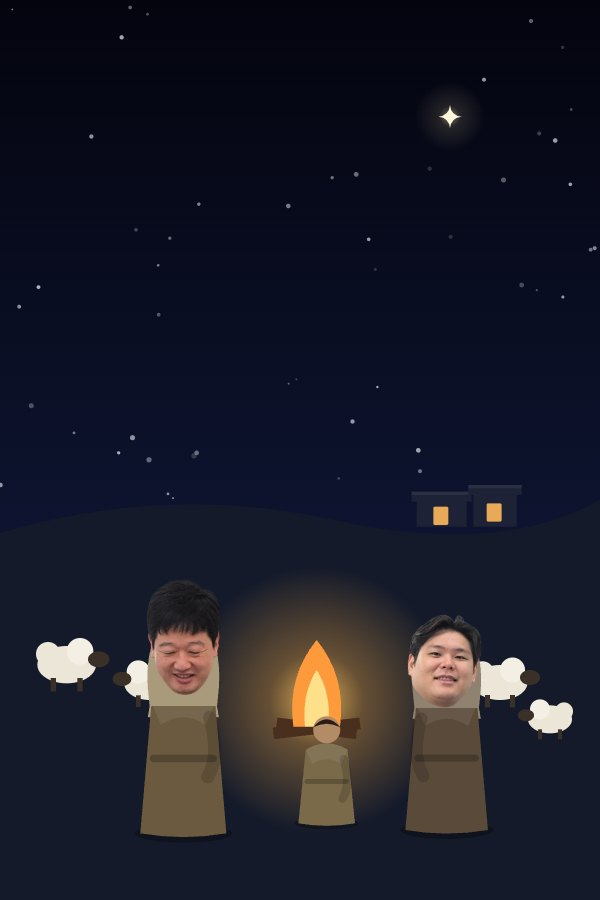
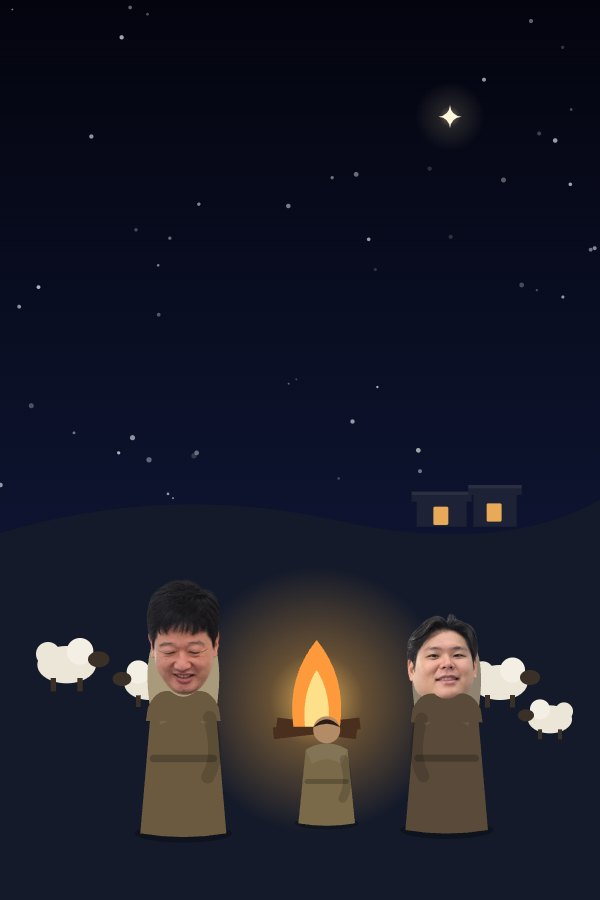
고등부: 고개 기울기 바로잡기, 엘리사벳 왼쪽 보기·베일 없이·목 가운데

Changed region(s): [[0.66, 0.6844, 0.81, 0.8089], [0.24, 0.7467, 0.39, 0.8089]]

diff --git a/story/cast.js b/story/cast.js
@@ -4,29 +4,29 @@
    '이웃@2'처럼 @숫자를 붙이면 그 장(章)에서만 그 선생님이 나옵니다. */
 window.FACES = {
   t01: { name: '성유정', w: 180, h: 246, cx: 103.2, cy: 157.9, gaze: 'R' },
-  t02: { name: '한주안', w: 154, h: 183, cx: 80.8, cy: 121.2, gaze: 'R', rot: -11 },
+  t02: { name: '한주안', w: 154, h: 183, cx: 80.8, cy: 121.2, gaze: 'R', rot: -18 },
   t03: { name: '김나연', w: 200, h: 240, cx: 63.6, cy: 144.5, gaze: 'L' },
-  t04: { name: '김승규', w: 156, h: 179, cx: 75.5, cy: 104.4, rot: -14 },
+  t04: { name: '김승규', w: 156, h: 179, cx: 75.5, cy: 104.4, rot: -23 },
   t05: { name: '김유진', w: 139, h: 192, cx: 68.5, cy: 141.1 },
   t06: { name: '김재연', w: 150, h: 187, cx: 92.8, cy: 125.0, gaze: 'R' },
-  t07: { name: '김진원', w: 171, h: 203, cx: 118.4, cy: 136.4, gaze: 'R', rot: -7 },
-  t08: { name: '김진호', w: 151, h: 186, cx: 63.0, cy: 125.4, rot: -13 },
-  t09: { name: '민다은', w: 198, h: 224, cx: 117.3, cy: 111.7, gaze: 'R' },
+  t07: { name: '김진원', w: 171, h: 203, cx: 118.4, cy: 136.4, gaze: 'R', rot: -11 },
+  t08: { name: '김진호', w: 151, h: 186, cx: 63.0, cy: 125.4, rot: -21 },
+  t09: { name: '민다은', w: 198, h: 224, cx: 117.3, cy: 111.7, gaze: 'R', rot: 7 },
   t10: { name: '박예찬', w: 143, h: 194, cx: 74.8, cy: 150.0 },
   t11: { name: '박찬하', w: 133, h: 196, cx: 69.9, cy: 137.5 },
-  t12: { name: '안하영', w: 179, h: 181, cx: 106.7, cy: 105.2, rot: -10 },
+  t12: { name: '안하영', w: 179, h: 181, cx: 106.7, cy: 105.2, rot: -17 },
   t13: { name: '유성욱', w: 136, h: 194, cx: 64.2, cy: 143.4 },
   t14: { name: '윤현종', w: 140, h: 178, cx: 82.7, cy: 121.2 },
-  t15: { name: '이경민', w: 138, h: 203, cx: 71.7, cy: 142.2 },
-  t16: { name: '이수영', w: 165, h: 186, cx: 130.9, cy: 108.9, gaze: 'R', rot: 19 },
+  t15: { name: '이경민', w: 138, h: 203, cx: 71.7, cy: 142.2, rot: 9 },
+  t16: { name: '이수영', w: 165, h: 186, cx: 130.9, cy: 108.9, gaze: 'R', rot: 15, look: 'L', nx: 100, noCloth: true },
   t17: { name: '이승원', w: 140, h: 218, cx: 70.7, cy: 161.8 },
   t18: { name: '이정관', w: 129, h: 190, cx: 64.6, cy: 134.4 },
   t19: { name: '전관우', w: 124, h: 175, cx: 58.0, cy: 124.4 },
   t20: { name: '정신영', w: 140, h: 207, cx: 66.4, cy: 165.2 },
-  t21: { name: '조형준', w: 157, h: 179, cx: 59.4, cy: 106.3, gaze: 'L' },
-  t22: { name: '최승렬', w: 146, h: 190, cx: 68.1, cy: 131.5 },
+  t21: { name: '조형준', w: 157, h: 179, cx: 59.4, cy: 106.3, gaze: 'L', rot: -6 },
+  t22: { name: '최승렬', w: 146, h: 190, cx: 68.1, cy: 131.5, rot: -8 },
   t23: { name: '최정은', w: 145, h: 168, cx: 103.6, cy: 104.6, gaze: 'R' },
-  t24: { name: '황보예원', w: 209, h: 237, cx: 116.3, cy: 123.1, gaze: 'R', rot: -7 },
+  t24: { name: '황보예원', w: 209, h: 237, cx: 116.3, cy: 123.1, gaze: 'R', rot: -11 },
 };
 // 배역 → 선생님. role은 출연진 화면에 보이는 이름
 window.CAST_LIST = [
